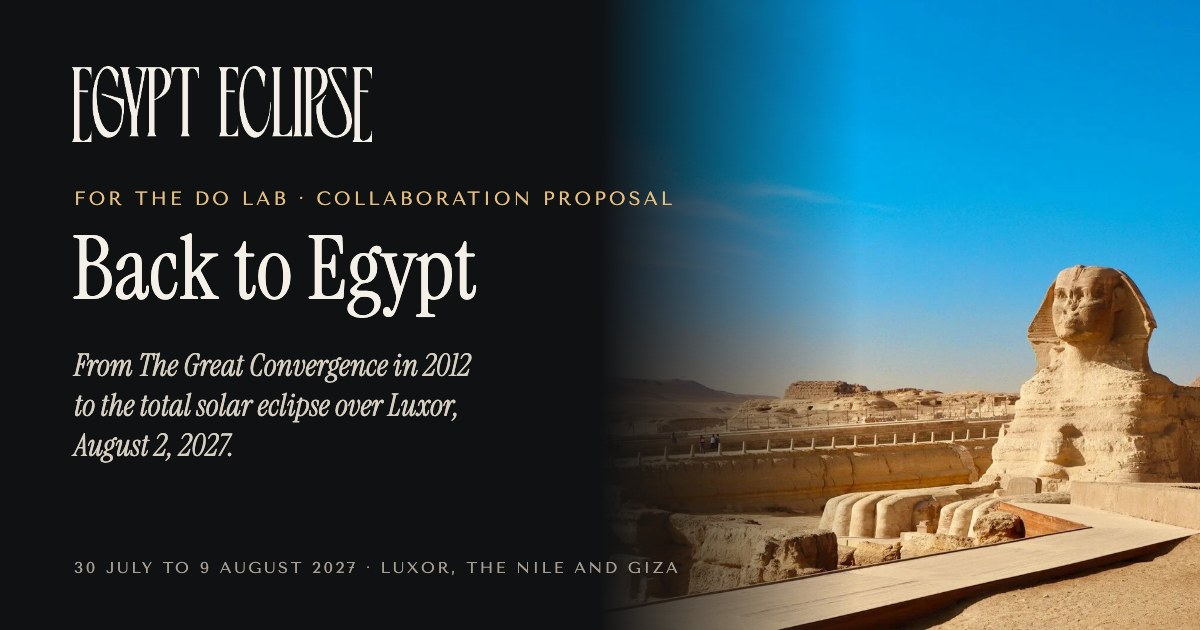
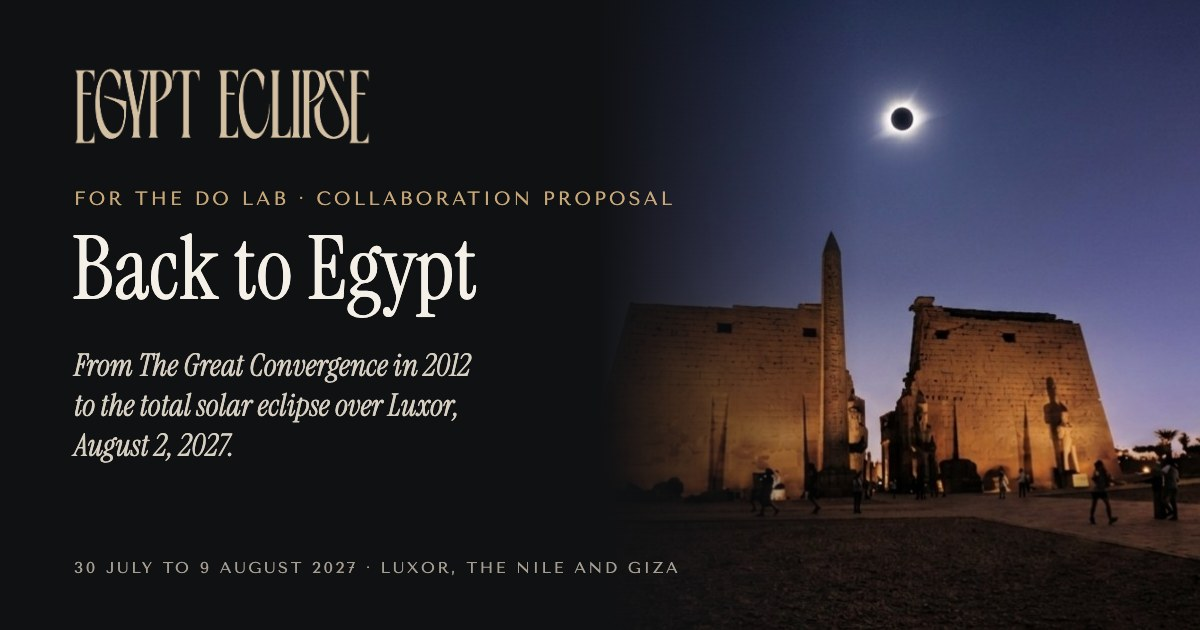
Do LaB page: match the one-pager design and photos

diff --git a/dolab/index.html b/dolab/index.html
@@ -11,7 +11,7 @@
 <meta property="og:image" content="https://invitation.egypt-eclipse.com/dolab/og.jpg">
 <meta property="og:image:width" content="1200">
 <meta property="og:image:height" content="630">
-<meta property="og:image:alt" content="Egypt Eclipse. For the Do LaB: Back to Egypt, with the Sphinx at Giza.">
+<meta property="og:image:alt" content="Egypt Eclipse. For the Do LaB: Back to Egypt, with the eclipse over Luxor Temple.">
 <meta name="twitter:card" content="summary_large_image">
 <meta name="twitter:title" content="Egypt Eclipse × Do LaB: Back to Egypt">
 <meta name="twitter:description" content="A collaboration proposal for the total solar eclipse over Luxor, August 2, 2027.">
@@ -21,82 +21,73 @@
 <link rel="apple-touch-icon" href="../apple-touch-icon.png">
 <title>Egypt Eclipse × Do LaB: Back to Egypt</title>
 <link rel="preconnect" href="https://fonts.googleapis.com"><link rel="preconnect" href="https://fonts.gstatic.com" crossorigin>
-<link href="https://fonts.googleapis.com/css2?family=EB+Garamond:ital,wght@0,400;0,600;1,400&family=Instrument+Serif:ital@0;1&family=Tenor+Sans&display=swap" rel="stylesheet">
-<style>
-:root{--lime:#E8E2D6;--ink:#101113;--green:#26332F;--ivory:#F4F0E8;--gold:#E4BD82;--bronze:#80502C}
-*{box-sizing:border-box}
-html,body{margin:0}
-body{background:var(--lime);color:var(--ink);font-family:"EB Garamond",Georgia,serif;font-size:18px;line-height:1.6}
-.lab{font-family:"Tenor Sans",Helvetica,Arial,sans-serif;font-size:12px;letter-spacing:.24em;text-transform:uppercase;color:var(--bronze);margin:0 0 14px}
-.gold{color:var(--gold)}
-.hero{background:var(--ink);color:var(--ivory);padding:56px 28px 0;text-align:center}
-.hero .wm,footer img{filter:brightness(0) invert(.93)}
-.hero .wm{width:min(360px,74%);height:auto;display:block;margin:0 auto 34px}
-.hero h1{font-family:"Instrument Serif",Georgia,serif;font-weight:400;font-size:clamp(40px,7vw,62px);line-height:1.04;margin:10px auto 18px;max-width:14ch;text-wrap:balance}
-.hero .sub{font-family:"Instrument Serif",Georgia,serif;font-style:italic;font-size:22px;color:#cfc7b8;margin:0 auto 40px;max-width:30ch;text-wrap:balance}
-.hero figure{margin:0 auto;max-width:720px}
-.hero img.photo{width:100%;aspect-ratio:16/8;object-fit:cover;display:block;filter:saturate(.8) sepia(.08)}
-.hero figcaption{font-size:12px;color:#9c9486;text-align:right;padding:8px 0 24px}
-main{max-width:720px;margin:0 auto;padding:56px 28px 40px}
-.lead{font-size:21px;line-height:1.55;margin:0 0 8px;text-wrap:pretty}
-h2{font-family:"Instrument Serif",Georgia,serif;font-weight:400;font-size:32px;line-height:1.12;margin:48px 0 14px;padding-top:22px;border-top:1px solid rgba(16,17,19,.16);display:flex;gap:16px;align-items:baseline;text-wrap:balance}
-h2 .n{font-family:"Tenor Sans",Helvetica,Arial,sans-serif;font-size:12px;letter-spacing:.2em;color:var(--bronze);flex:none}
-p{margin:0 0 14px;text-wrap:pretty}
-ol,ul{padding-left:0;margin:6px 0 14px;list-style:none;counter-reset:i}
-ol li{counter-increment:i;position:relative;padding:14px 0 6px 44px;border-top:1px solid rgba(16,17,19,.1)}
-ol li::before{content:counter(i);position:absolute;left:0;top:12px;font-family:"Instrument Serif",Georgia,serif;font-size:28px;line-height:1;color:var(--bronze)}
-ul li{position:relative;padding-left:22px} ul li::before{content:"";position:absolute;left:2px;top:.75em;width:8px;height:8px;border-radius:50%;background:var(--bronze)}
-li p{margin:0 0 8px}
-strong{font-weight:600}
-.callout{background:var(--green);color:var(--ivory);padding:30px 30px 22px;margin:28px 0 8px}
-.callout p{font-size:19px} .callout .note{font-family:"Instrument Serif",Georgia,serif;font-style:italic;font-size:19px;color:#d9d1c2;border-top:1px solid rgba(244,240,232,.18);padding-top:14px;margin-top:6px}
-footer{background:var(--ink);color:#bdb5a7;text-align:center;padding:44px 24px 52px}
-footer img{width:min(220px,56%);height:auto;display:block;margin:0 auto 16px;opacity:.95}
-footer p{font-family:"Tenor Sans",Helvetica,Arial,sans-serif;font-size:11px;letter-spacing:.22em;text-transform:uppercase;margin:0}
-@media (max-width:600px){body{font-size:17px} .hero{padding:44px 18px 0} main{padding:40px 20px 30px} .callout{padding:24px 20px 16px} h2{font-size:28px}}
-
-.strip{display:grid;grid-template-columns:.8fr 1.3fr 1fr;gap:8px;margin:34px 0 8px}
-.strip img{width:100%;height:150px;object-fit:cover;display:block;filter:saturate(.85) sepia(.06)}
-.roles{display:grid;grid-template-columns:repeat(2,minmax(0,1fr));gap:22px 36px;margin-top:10px}
-.roles h3{font-family:"Instrument Serif",Georgia,serif;font-weight:400;font-size:26px;line-height:1.15;color:var(--bronze);margin:0 0 6px}
-.roles p{margin:0}
-.facts{display:grid;grid-template-columns:repeat(3,minmax(0,1fr));gap:24px;background:#ded6c7;padding:24px 26px 18px;margin:44px 0 0}
-.facts p{font-size:17px;line-height:1.5}
-.sig{font-family:"Instrument Serif",Georgia,serif;font-style:italic;font-size:22px;margin:40px 0 0}
-.sig a{color:var(--bronze);text-decoration:none}
-@media (max-width:600px){.strip{grid-template-columns:1fr 1fr}.strip img:last-child{display:none}.strip img{height:120px}.roles,.facts{grid-template-columns:1fr}}
-</style></head>
+<link href="https://fonts.googleapis.com/css2?family=Cinzel:wght@400;500&family=Cormorant+Garamond:ital,wght@0,500;0,600;1,500&family=EB+Garamond:ital,wght@0,400;0,600;1,400&display=swap" rel="stylesheet">
+<style>:root{--paper:#F7F5F0;--ink:#2D2925;--bronze:#825931;--sand:#E5DECA;--gold:#C7A778;--ivory:#F4F0E8;--green:#202B2A;--dark:#101113}
+*{box-sizing:border-box}html,body{margin:0}
+body{background:var(--paper);color:var(--ink);font-family:"EB Garamond",Georgia,serif;font-size:18px;line-height:1.55}
+a{color:var(--bronze)}
+.hero{position:relative;height:clamp(340px,48vw,520px);overflow:hidden;background:var(--dark)}
+.hero>img{position:absolute;inset:0;width:100%;height:100%;object-fit:cover;object-position:50% 12%;display:block}
+.hero:after{content:"";position:absolute;inset:0;background:linear-gradient(180deg,rgba(16,17,19,.1) 0%,rgba(16,17,19,.5) 45%,rgba(16,17,19,.92) 82%,#101113 100%)}
+.hero .in{position:absolute;left:0;right:0;bottom:34px;z-index:1;display:flex;flex-direction:column;align-items:center;text-align:center;padding:0 20px}
+.cz{font-family:Cinzel,Georgia,serif;text-transform:uppercase}
+.hero .date{font-size:13px;letter-spacing:.2em;color:var(--sand);margin:0 0 12px}
+.hero .wm{width:min(360px,76vw);height:auto;display:block}
+.hero .rule{width:230px;max-width:60%;height:1px;background:var(--gold);margin:16px 0 14px}
+.hero .for{font-size:12.5px;letter-spacing:.32em;color:var(--gold);margin:0}
+main{max-width:740px;margin:0 auto;padding:44px 28px 20px}
+.lab{font-family:Cinzel,Georgia,serif;font-size:12px;letter-spacing:.24em;text-transform:uppercase;color:var(--bronze);margin:0 0 8px}
+h1{font-family:"Cormorant Garamond",Georgia,serif;font-weight:600;font-size:40px;line-height:1.1;margin:0 0 14px;text-wrap:balance}
+p{margin:0 0 12px;text-wrap:pretty}
+.strip{display:grid;grid-template-columns:.8fr 1.3fr 1fr;gap:8px;margin:30px 0 10px}
+.strip img{width:100%;height:150px;object-fit:cover;display:block;border-radius:2px}
+.sec{display:flex;align-items:center;gap:16px;margin:34px 0 18px}
+.sec .lab{margin:0;white-space:nowrap;letter-spacing:.28em}.sec span{flex:1;height:1px;background:var(--gold)}
+.roles{display:grid;grid-template-columns:repeat(2,minmax(0,1fr));gap:18px 40px}
+.roles h3{font-family:"Cormorant Garamond",Georgia,serif;font-weight:600;font-size:25px;line-height:1.15;color:var(--bronze);margin:0 0 4px}
+.roles p{margin:0;font-size:17px;line-height:1.5}
+.band{background:var(--sand);margin-top:40px;padding:26px 28px 24px}
+.band .in{max-width:740px;margin:0 auto;display:grid;grid-template-columns:repeat(3,minmax(0,1fr));gap:32px;text-align:center}
+.band .lab{font-size:11.5px;margin:0 0 6px}.band p{font-size:16.5px;line-height:1.45;margin:0}
+.sign{max-width:740px;margin:0 auto;padding:28px 28px 90px;display:flex;justify-content:space-between;align-items:center;gap:20px;flex-wrap:wrap}
+.sign .who{font-family:"Cormorant Garamond",Georgia,serif;font-style:italic;font-weight:500;font-size:22px}
+.sign .who a{text-decoration:none}
+.sign .site{font-family:Cinzel,Georgia,serif;font-size:11px;letter-spacing:.2em;text-transform:uppercase;color:var(--bronze)}
+@media (max-width:640px){body{font-size:17px}h1{font-size:34px}.strip{grid-template-columns:1fr 1fr}.strip img:last-child{display:none}.strip img{height:120px}.roles,.band .in{grid-template-columns:1fr}.band .in{gap:20px}main{padding:34px 20px 10px}.sign{padding:24px 20px 90px}}</style></head>
 <body>
 <header class="hero">
- <img class="wm" src="../logo.png" alt="Egypt Eclipse">
- <p class="lab gold">For the Do LaB · Collaboration proposal</p>
- <h1>Back to Egypt</h1>
- <p class="sub">July 30 to August 9, 2027 · Luxor, the Nile and Giza</p>
- <figure><img class="photo" src="../giza-plateau.webp" alt="The Giza plateau and its pyramids"><figcaption>The Giza plateau.</figcaption></figure>
+ <img src="hero.jpg" alt="Total solar eclipse over Luxor Temple at dusk">
+ <div class="in">
+  <p class="date cz">July 30 – August 9, 2027</p>
+  <img class="wm" src="wordmark.png" alt="Egypt Eclipse">
+  <div class="rule"></div>
+  <p class="for cz">For the Do LaB</p>
+ </div>
 </header>
 <main>
-<div class="lead"><p>In December 2012 you took The Great Convergence to the pyramids and down the Nile. We&#39;d like to invite you back for the next great celestial gathering for the total solar eclipse over Luxor on August 2, 2027.</p>
-<p>Totality lasts 6 minutes 23 seconds, the longest on land this century. Around 500 people travel with us, by Nile cruise or on Luxor&#39;s West Bank, then on to Giza. We&#39;d love the Do LaB to be part of it.</p></div>
+<p class="lab">Collaboration proposal</p>
+<h1>Back to Egypt</h1>
+<p>In December 2012 you took The Great Convergence to the pyramids and down the Nile. We&#39;d like to invite you back for the next great celestial gathering for the total solar eclipse over Luxor on August 2, 2027.</p>
+<p>Totality lasts 6 minutes 23 seconds, the longest on land this century. Around 500 people travel with us, by Nile cruise or on Luxor&#39;s West Bank, then on to Giza. We&#39;d love the Do LaB to be part of it.</p>
 <div class="strip">
- <img src="../hatshepsut.webp" alt="The Temple of Hatshepsut beneath the cliffs">
- <img src="../place-nile.webp" alt="A small house among palms above the Nile">
- <img src="../gathering-opening.webp" alt="Guests gathered for an opening ceremony">
+ <img src="colonnade.jpg" alt="A traveler looking up in a sunlit temple colonnade">
+ <img src="hatshepsut.jpg" alt="Temple of Hatshepsut lit at night beneath the cliffs">
+ <img src="nile.jpg" alt="The Nile lined with palms at golden hour">
 </div>
-<h2><span class="n">01</span>Where we see you</h2>
+<div class="sec"><p class="lab">Where we see you</p><span></span></div>
 <div class="roles">
  <div><h3>I · Build</h3><p>Eclipse day is outdoors in August heat. We need shade and a stage on the Gathering field next to the Marsam hotel.</p></div>
  <div><h3>II · Curate</h3><p>Take a night: the celebration after totality on August 2, or the Lion&#39;s Gate at the Giza pyramids on August 8.</p></div>
  <div><h3>III · Host</h3><p>Bring your crew as a group on one of the Nile boats or at a Luxor hotel, and host that part of the journey.</p></div>
  <div><h3>IV · Share</h3><p>Tell the Lightning in a Bottle community about Egypt, and we&#39;ll tell ours about LIB. The dates don&#39;t overlap.</p></div>
 </div>
-<div class="facts">
+</main>
+<section class="band"><div class="in">
  <div><p class="lab">Moments</p><p>New Moon Ceremony, Aug 1<br>Eclipse Viewing, Aug 2<br>Totality Celebration, that evening<br>Lion&#39;s Gate in Giza, Aug 8</p></div>
  <div><p class="lab">Terms</p><p>Open. We&#39;d rather work them out with you once we know what fits.</p></div>
  <div><p class="lab">Timing</p><p>First Contact Participant announcement is planned for Dec 8. Temple approvals around February. On site in Luxor from late July.</p></div>
-</div>
-<p class="sig">Mitch Morales, IMXP · <a href="mailto:mitch@imxp.org">mitch@imxp.org</a></p>
-</main>
-<footer><img src="../logo.png" alt="Egypt Eclipse"><p>30 July to 9 August 2027 · Luxor, the Nile and Giza</p><p style="margin-top:10px;color:#E4BD82">egypteclipse.com</p></footer>
+</div></section>
+<div class="sign"><span class="who">Mitch Morales, IMXP · <a href="mailto:mitch@imxp.org">mitch@imxp.org</a></span><span class="site">Egypt Eclipse | egypteclipse.com</span></div>
 <script>window.MK_SUPABASE = {url:"https://ybmevmwefsvigcesjojo.supabase.co", key:"sb_publishable_jMCxUWH_nqgi0qomakS0Gg_3sEexiQ8"};</script>
 <div id="mk-btn" class="mk-float" hidden><button type="button" id="mk-open">Suggest an edit</button></div>
 <button type="button" id="mk-general" class="mk-fab">Suggest edits <span id="mk-count">0</span></button>
